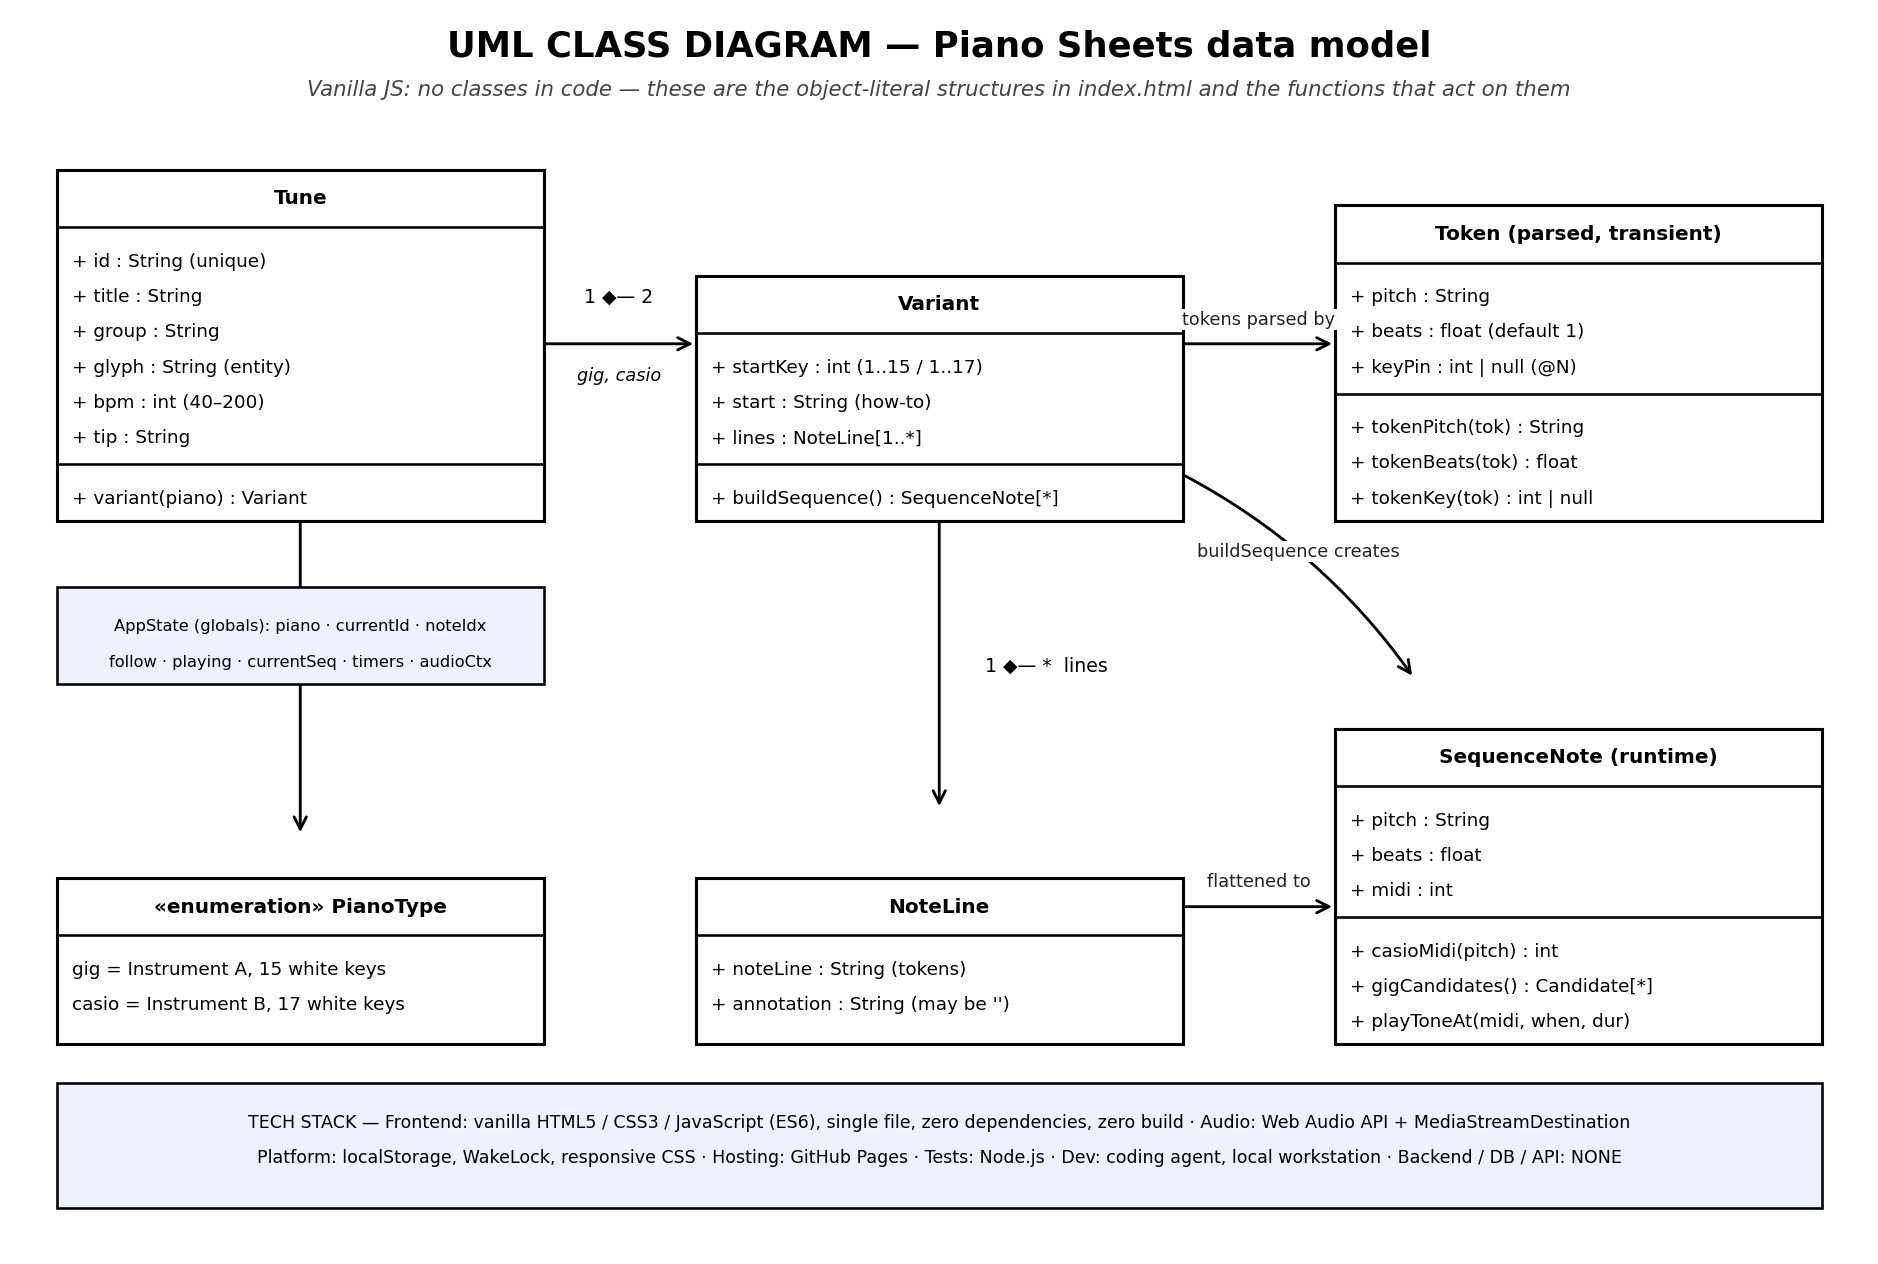
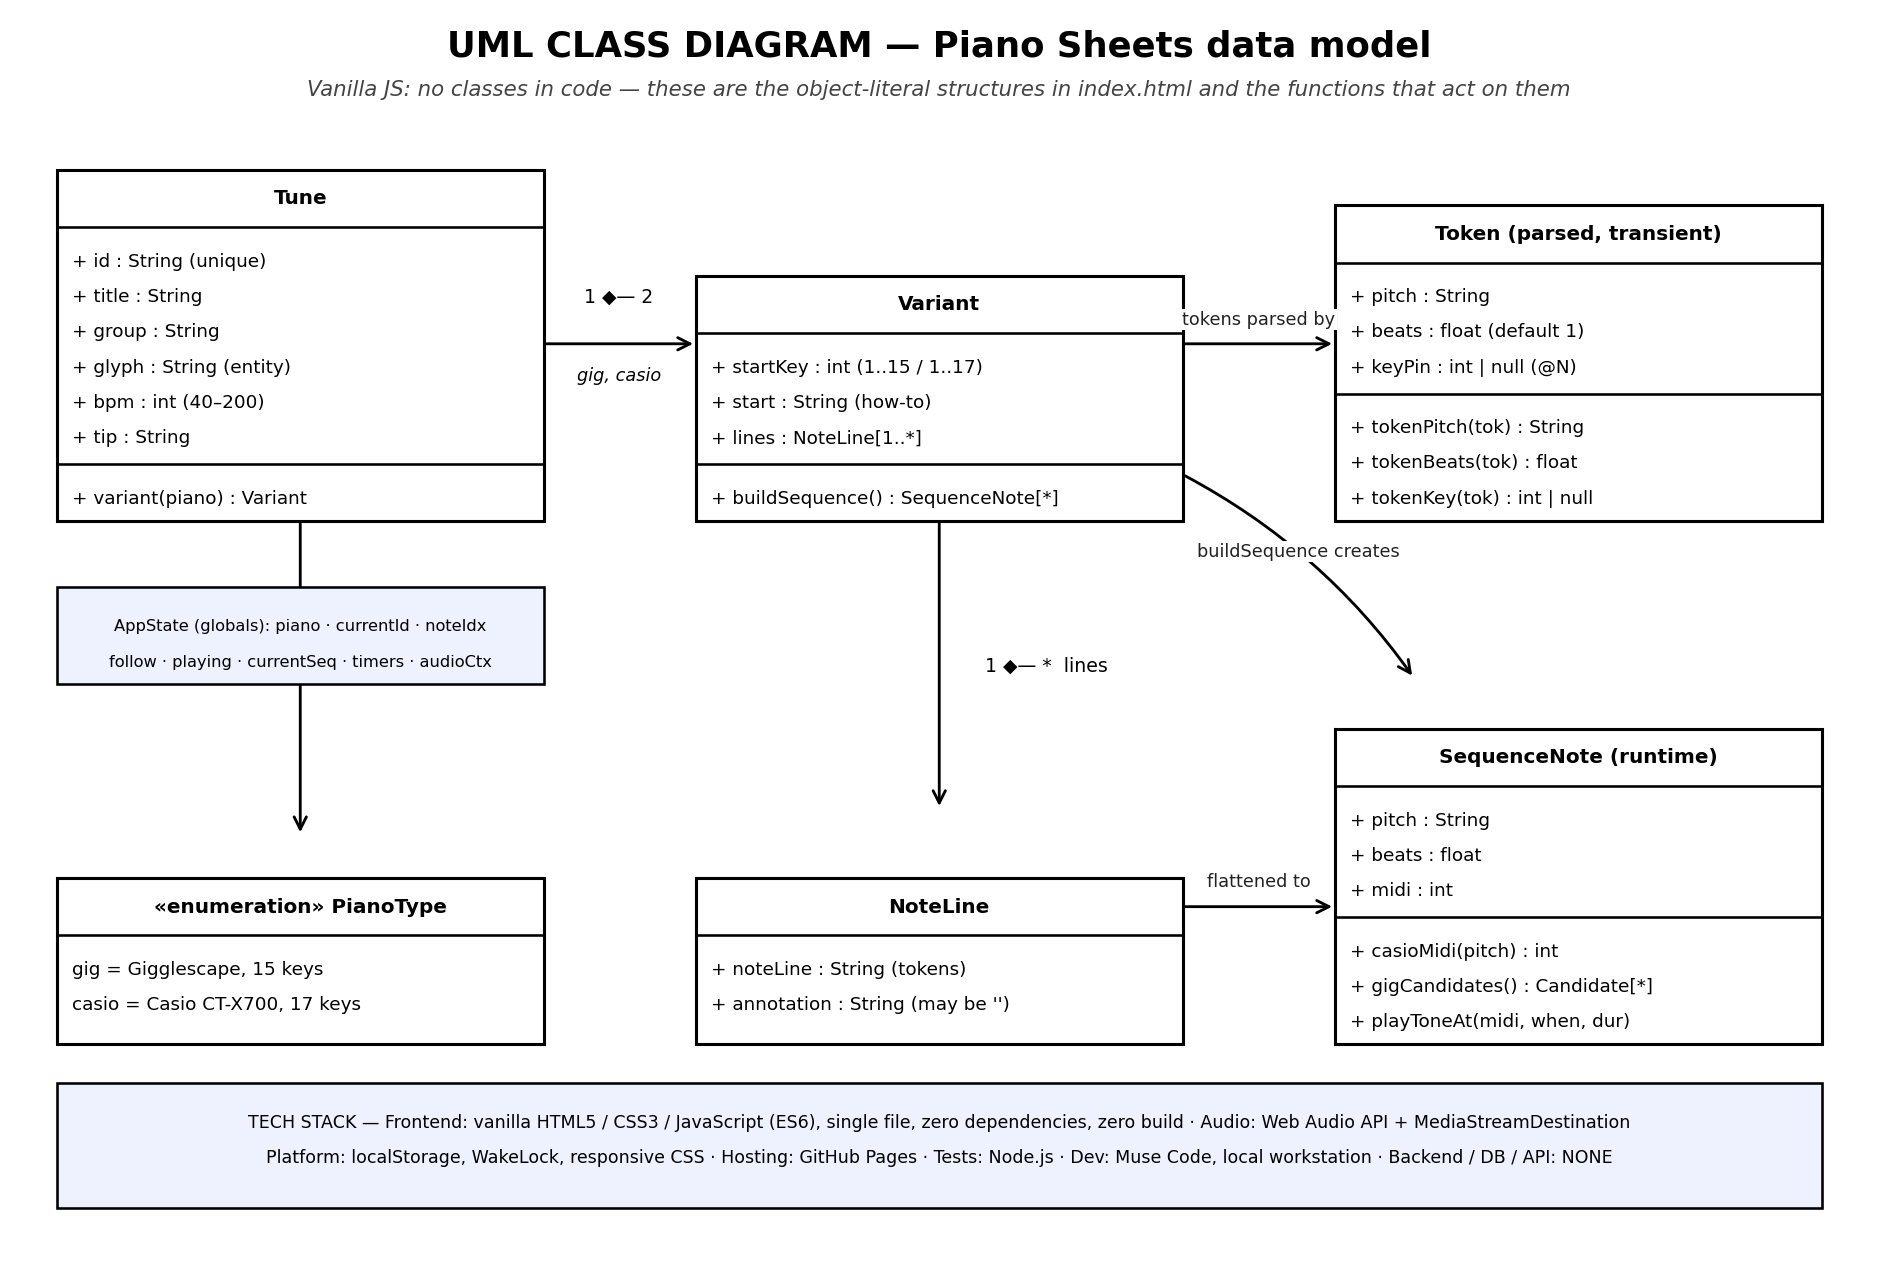
Restore instrument names in UML diagrams

Changed region(s): [[0.1235, 0.8948, 0.8647, 0.9256], [0.0618, 0.7405, 0.2162, 0.8022]]

diff --git a/docs/uml/README.md b/docs/uml/README.md
@@ -11,6 +11,6 @@ file: no backend, no database, and no network calls at runtime.
 | [Activity diagrams](activity-diagrams.png) | The product flows: learning a tune, and adding a new tune |
 | [Sequence diagram](sequence-diagram.png) | The calls behind Play and Follow along, in time order |
 
-The two instrument variants are labelled Instrument A (15 white keys) and
-Instrument B (17 white keys) in the diagrams; in the code they are the `gig`
-and `casio` variant keys.
+The two instrument variants are the Gigglescape (15 white keys, the `gig`
+variant in the code) and the Casio CT-X700 (17 white keys, the `casio`
+variant).
